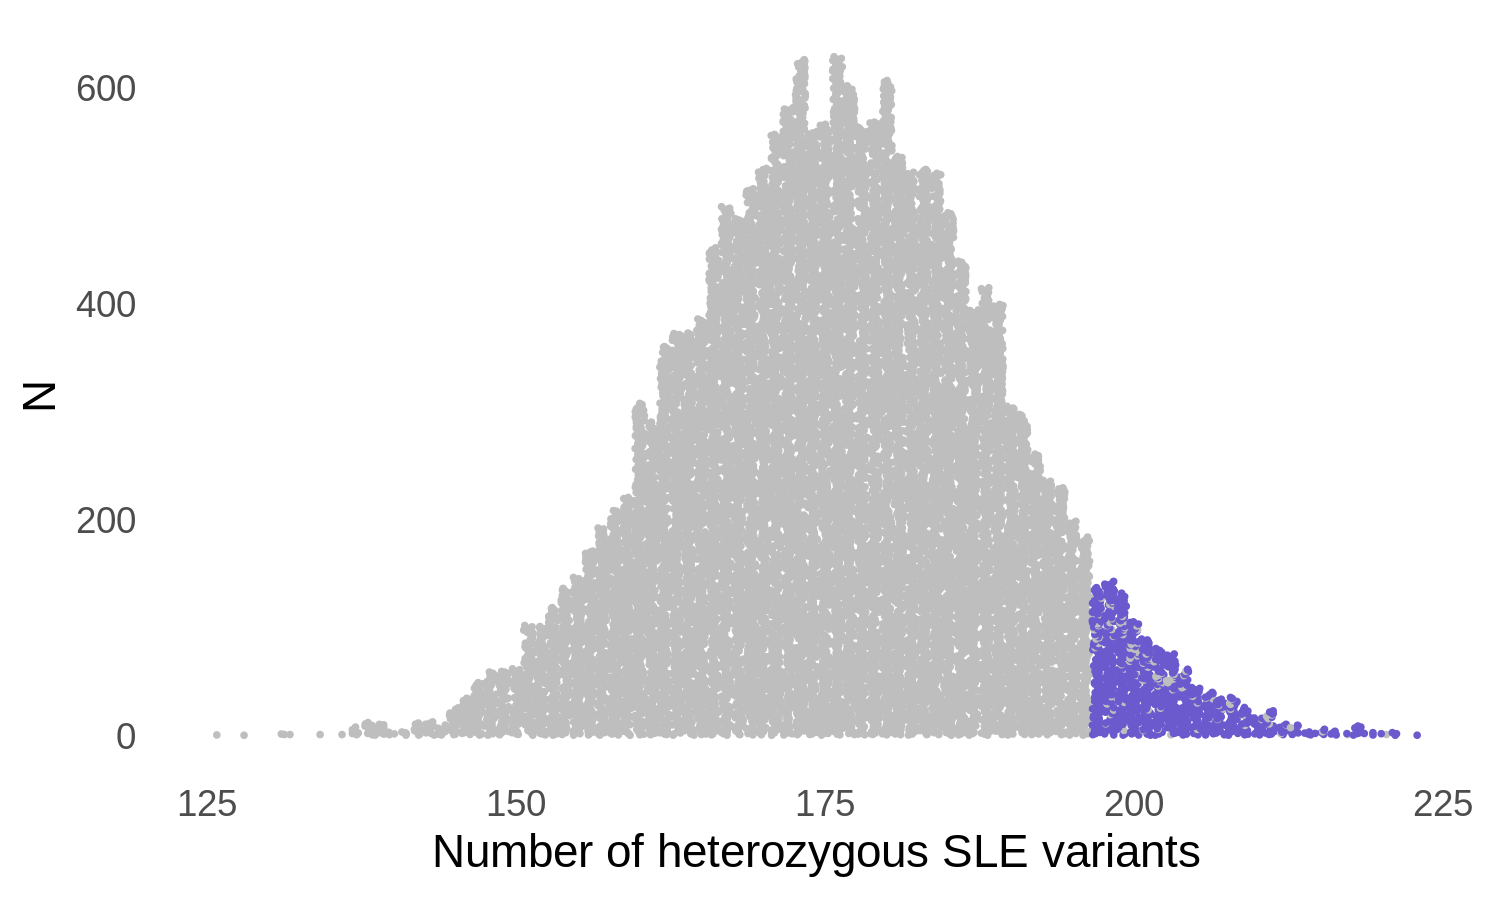
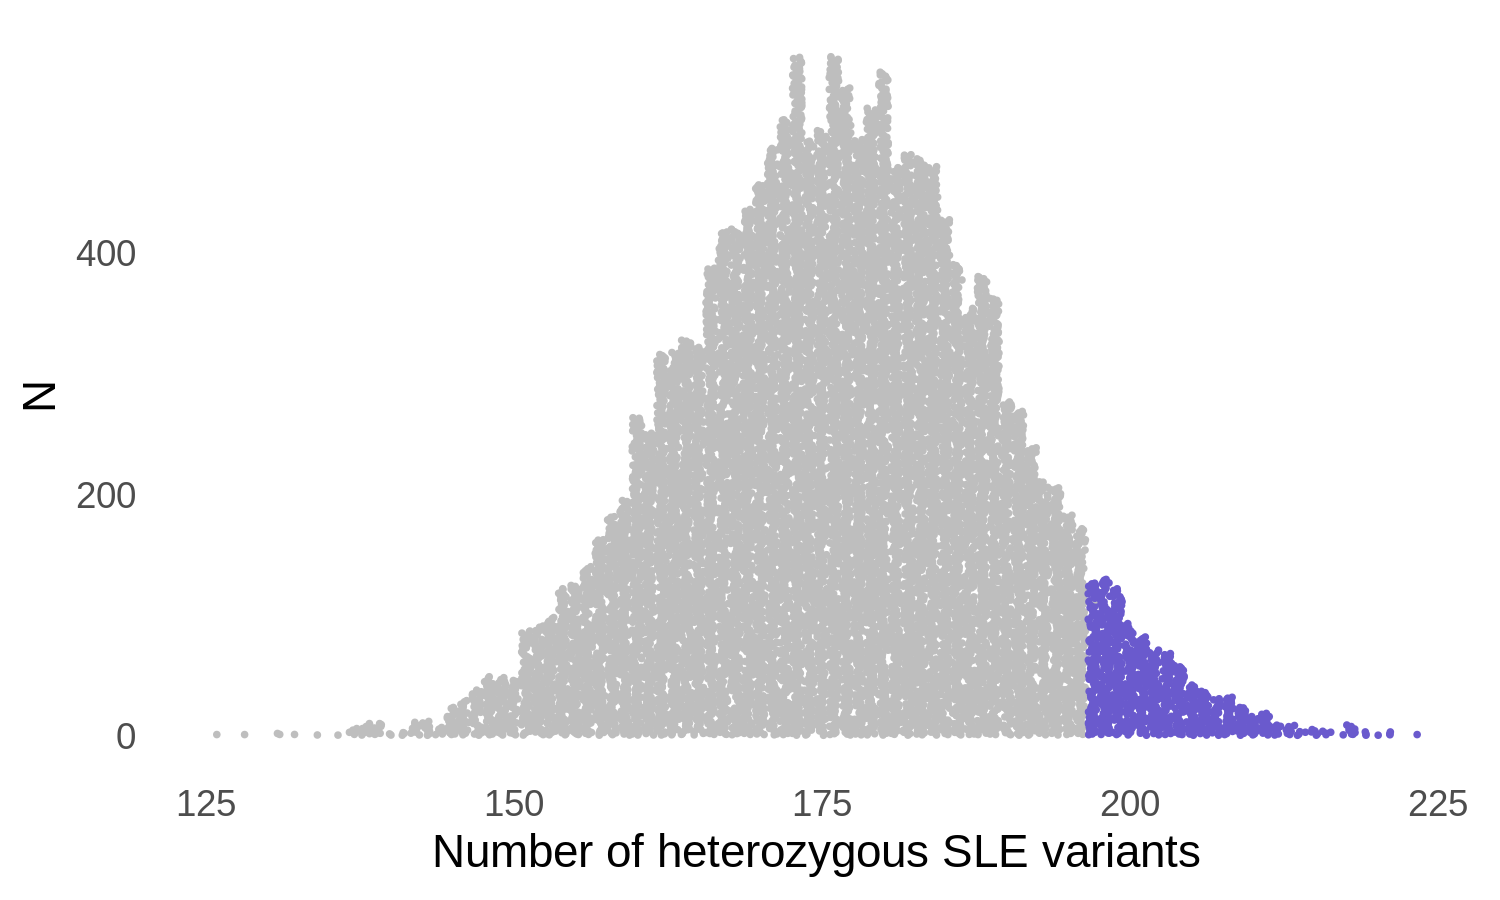
add plots for duplicates in MGB

diff --git a/README.md b/README.md
@@ -275,3 +275,12 @@ Here is the distribution of scores among the \~19K European females. In
 blue we have the indiviuals that would be candidates for selection.
 
 <img src="./mgb_biobank/plots/het_scores_dist.png" width="1500" />
+
+##### Duplicates
+
+In batch 0410 we have \~6,100 individuals who were included already in
+the biobank, but were apparently re-genotyped with the GSA array. These
+individuals have different genotypes at some loci, and that is reflected
+in the heterozigosity score.
+
+<img src="./mgb_biobank/plots/duplicates.png" width="900" />
